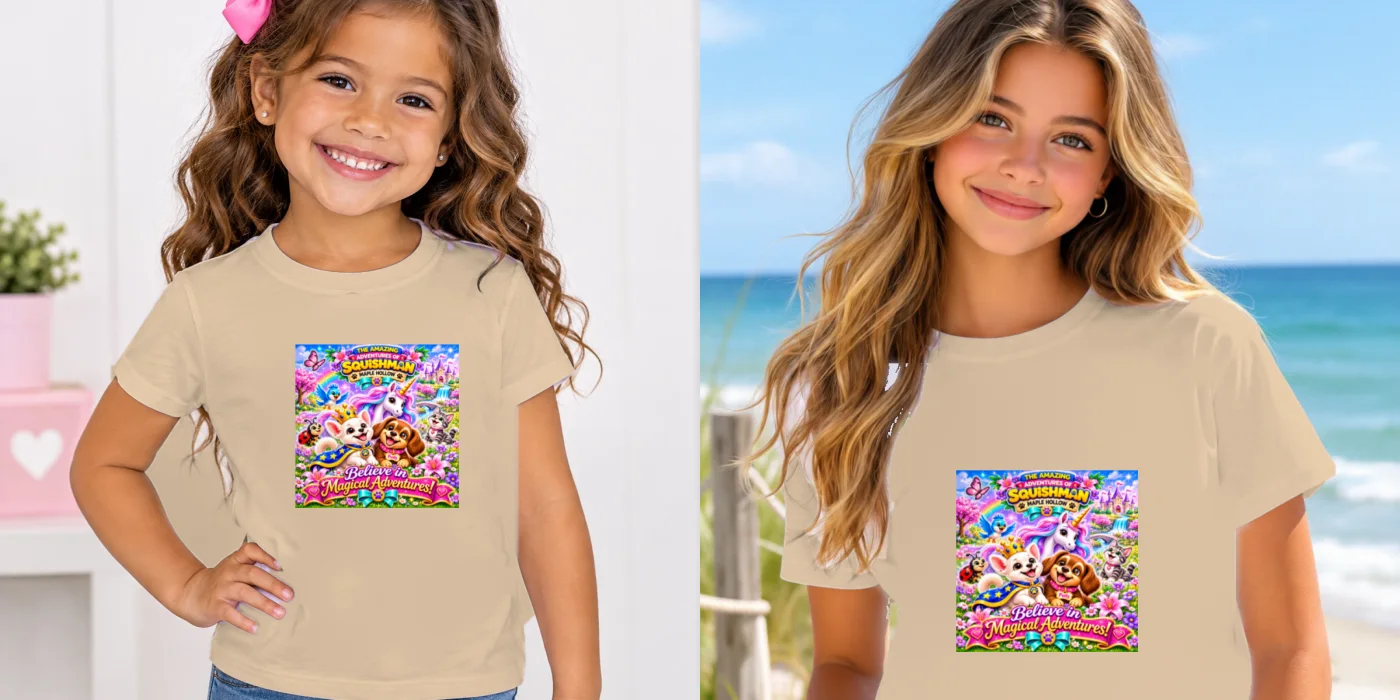
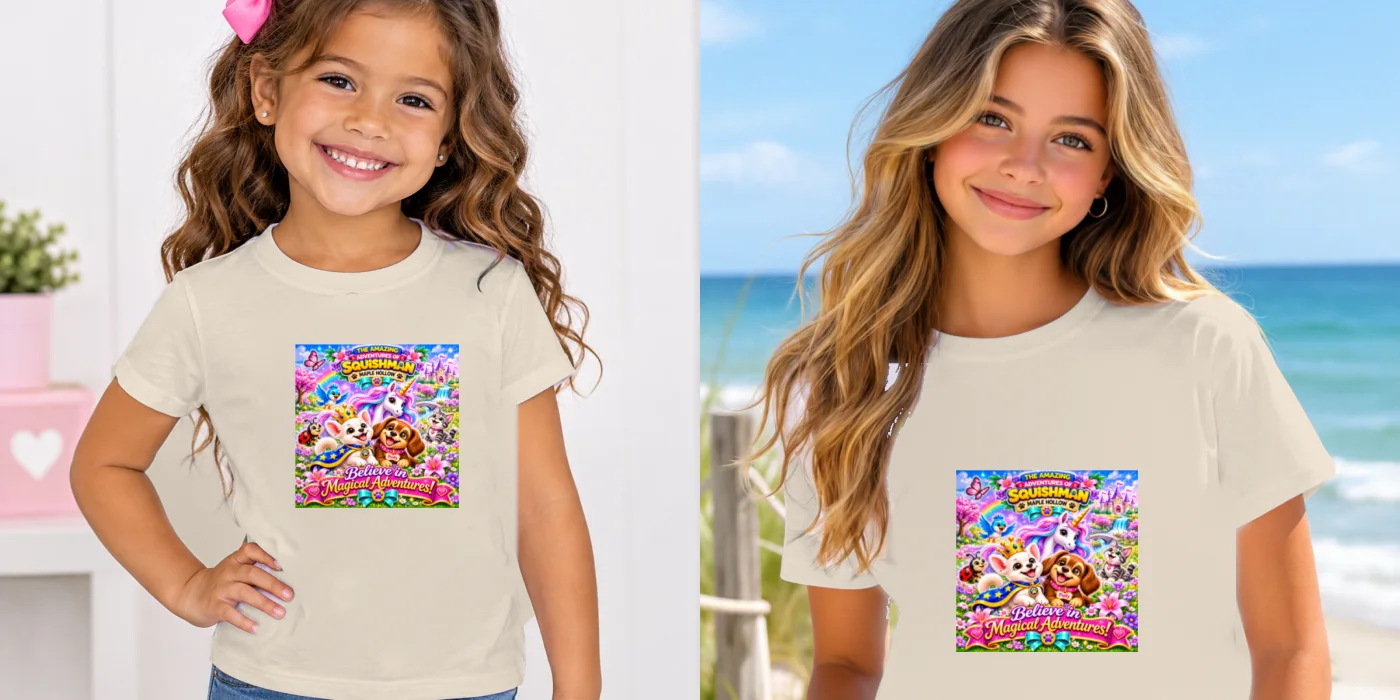
Girls' tee: sell beige and light pink (Youth S-XL) and light blue (2T-5/6T)
Printful's two girls' blanks only offer these light colours in those sizes
(checked against the Printful catalog): Bella + Canvas 3001Y Heather Dust and
Pink, Rabbit Skins 3321 Light Blue. Lavender is not made, so its photos and
the coming-soon slides are removed. Photos re-shaded to the real shirt colours,
for all 14 designs.

Claude-Session: https://claude.ai/code/session_01UWGUUWoCXNBhVHaKnEfjmD

Changed region(s): [[0.0614, 0.33, 0.43, 1.0], [0.5529, 0.42, 0.9521, 1.0]]

diff --git a/public/merch.js b/public/merch.js
@@ -103,8 +103,8 @@ const SHOP={
   desc:'A soft cotton one-piece for the littlest Squish Squad fans, in the same five designs as the kids’ tee. Envelope neckline and three snaps at the bottom for easy changes.'},
  'Squish Squad Kids’ Sweatshirts':{key:'KIDSSWEATSHIRT',img:'kidssweatshirt',name:'Squish Squad Kids’ Sweatshirt',facts:'Youth XS–XL · soft cotton-blend fleece',
   desc:'A cozy crewneck sweatshirt in the same five designs as the kids’ tee, on soft Gildan fleece with ribbed cuffs and waistband. Perfect for chilly mornings and fall adventures.'},
- 'Squish Squad Girls’ T-Shirts':{key:'GIRLSTEE',img:'girlstee',name:'Squish Squad Girls’ T-Shirt',facts:'Toddler 2T–5/6T and Youth S–XL · white cotton tee',
-  desc:'Seven sparkly scenes made for girls, each as a big front print or small on the left chest like a pocket logo: a Squish Squad beach day, magical unicorn adventures, “Every Girl Deserves a Little Magic!” and three Christmas designs, printed in full color on a soft white tee in every girls’ size from 2T to Youth XL. Beige, light pink, light blue and lavender are coming soon.'},
+ 'Squish Squad Girls’ T-Shirts':{key:'GIRLSTEE',img:'girlstee',name:'Squish Squad Girls’ T-Shirt',facts:'Toddler 2T–5/6T and Youth S–XL · soft cotton tee',
+  desc:'Seven sparkly scenes made for girls, each as a big front print or small on the left chest like a pocket logo: a Squish Squad beach day, magical unicorn adventures, “Every Girl Deserves a Little Magic!” and three Christmas designs, printed in full color on a soft white tee in every girls’ size from 2T to Youth XL. Also in beige and light pink (Youth S–XL) and light blue (2T–5/6T).'},
  'Squish Squad Toddler T-Shirts':{key:'TODDLERTEE',img:'toddlertee',name:'Squish Squad Toddler T-Shirt',facts:'Toddler 2T–5/6T · soft cotton jersey',
   desc:'The Squish Squad tee sized for toddlers, in the same five designs as the kids’ tee and bright, playful colors. Soft cotton jersey with a comfy crew neck.'},
  'Squish Squad Sweatshirts':{key:'SWEATSHIRT',img:'sweatshirt',name:'Squish Squad Sweatshirt',facts:'Unisex S–3XL · soft cotton-blend fleece',
@@ -330,8 +330,6 @@ function open(p,from){
  // Girls' tee: per design, the full beach photo and an artwork close-up.
  const gs=p.imgBase==='girlstee'&&p.colors[0][2].name.replace('shop-girlstee-white-','');
  if(gs)slides=slides.concat([{img:img(`shop-girlstee-beach-${gs}`,900,1344,0,0,`A smiling girl on the beach in the white ${p.name} with the ${DESIGN_TITLE[design(p).key]} design`),label:`${p.name} — on the beach`},{img:img(`shop-girlstee-art-${gs}`,1400,700,0,0,`Close-up of the ${DESIGN_TITLE[design(p).key]} artwork`),label:`${p.name} — the artwork`}]);
- // More light colours (photos only until they can be ordered).
- if(gs&&!gs.endsWith('-pocket'))slides=slides.concat([['beige','Beige'],['pink','Light Pink'],['blue','Light Blue'],['lavender','Lavender']].map(([c,l])=>({img:img(`shop-girlstee-beachcolor-${c}-${gs}`,900,1344,0,0,`A smiling girl on the beach in a ${l.toLowerCase()} ${p.name} with the ${DESIGN_TITLE[design(p).key]} design`),label:`${p.name} — ${l} (coming soon)`})));
  opener=from;gTitle.textContent=p.name;show(0);
  if(typeof dlg.showModal==='function')dlg.showModal();else dlg.setAttribute('open','');
  dlg.querySelector('.mg-close').focus();

diff --git a/test/fulfillment.test.ts b/test/fulfillment.test.ts
@@ -1462,7 +1462,12 @@ describe("merch orders → Printful", () => {
 			"GIRLS_BEACH", "GIRLS_MAGIC", "GIRLS_MAGIC_KITTY", "GIRLS_LITTLE_MAGIC", "GIRLS_XMAS_WISHES", "GIRLS_XMAS_COOKIES", "GIRLS_XMAS_HELPERS",
 			"GIRLS_BEACH_POCKET", "GIRLS_MAGIC_POCKET", "GIRLS_MAGIC_KITTY_POCKET", "GIRLS_LITTLE_MAGIC_POCKET", "GIRLS_XMAS_WISHES_POCKET", "GIRLS_XMAS_COOKIES_POCKET", "GIRLS_XMAS_HELPERS_POCKET",
 		]);
-		for (const c of girls.colors) expect(Object.keys(c.variants)).toEqual(girls.sizes);
+		expect(Object.fromEntries(girls.colors.map((c) => [c.name, Object.keys(c.variants)]))).toEqual({
+			White: girls.sizes,
+			Beige: ["Youth S", "Youth M", "Youth L", "Youth XL"],
+			"Light Pink": ["Youth S", "Youth M", "Youth L", "Youth XL"],
+			"Light Blue": ["2T", "3T", "4T", "5/6T"],
+		});
 		const { createMerchCheckout } = await import("../src/fulfillment/merch-service");
 		const r = await createMerchCheckout(
 			sandboxEnv({ MERCH_CHECKOUT: "on" }),
@@ -1502,6 +1507,9 @@ describe("merch orders → Printful", () => {
 			url: "https://squishman.com/assets/merch/print/girls/girls-magical-adventures.png",
 			position: { area_width: 1500, area_height: 1800, width: 450, height: 450, top: 150, left: 885 },
 		});
+		merchSession("cs_test_girlsbeige", "GIRLSTEE|Beige|Youth S|GIRLS_BEACH");
+		await deliver(sandboxEnv(), paidEvent("cs_test_girlsbeige"));
+		expect((printful.lastCreate as { items: Array<{ variant_id: number }> }).items[0].variant_id).toBe(17604);
 		merchSession("cs_test_girlspockettoddler", "GIRLSTEE|White|2T|GIRLS_MAGIC_POCKET");
 		await deliver(sandboxEnv(), paidEvent("cs_test_girlspockettoddler"));
 		expect((printful.lastCreate as { items: Array<{ files: Array<Record<string, unknown>> }> }).items[0].files[0]).toMatchObject({

diff --git a/src/fulfillment/merch.ts b/src/fulfillment/merch.ts
@@ -1567,6 +1567,11 @@ MERCH.push({
 			hex: "#ffffff",
 			variants: { ...toddlerSizes([12630, 12631, 12632, 12633]), "Youth S": 9426, "Youth M": 9427, "Youth L": 9428, "Youth XL": 9429 },
 		},
+		// Light colours only where Printful makes them (checked 3 Nov 2026): the toddler tee has no
+		// beige or light pink (only Hot Pink), and the youth tee's blue is a darker Heather Columbia Blue.
+		{ name: "Beige", hex: "#e5d9c9", variants: { "Youth S": 17604, "Youth M": 17605, "Youth L": 17606, "Youth XL": 17607 } }, // Heather Dust
+		{ name: "Light Pink", hex: "#ffcccf", variants: { "Youth S": 10616, "Youth M": 10617, "Youth L": 10618, "Youth XL": 10619 } },
+		{ name: "Light Blue", hex: "#d4ebff", variants: toddlerSizes([12622, 12623, 12624, 12625]) },
 	],
 	productionEnabled: true,
 });
